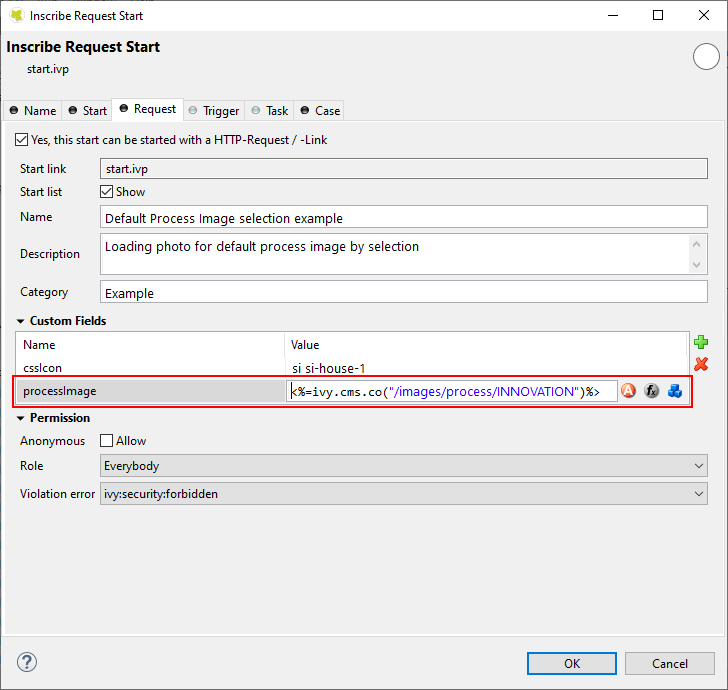
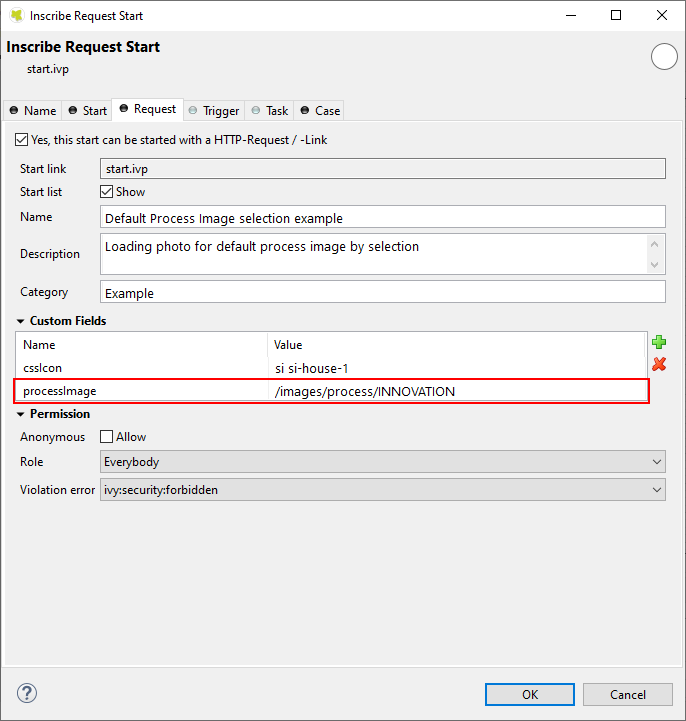
IVYPORTAL-12813 - Various or urgent requests in IVYPORTAL - S216 - IVYPORTAL-12837 - Consider to revert using cms for process image customization
Former-commit-id: 3254826ef0e91d7d7389cf51d823f42c9c48345c

diff --git a/AxonIvyPortal/PortalKit/src/ch/ivy/addon/portalkit/bean/ProcessWidgetBean.java b/AxonIvyPortal/PortalKit/src/ch/ivy/addon/portalkit/bean/ProcessWidgetBean.java
@@ -41,6 +41,8 @@ import ch.ivy.addon.portalkit.service.GlobalSettingService;
 import ch.ivy.addon.portalkit.service.ProcessStartCollector;
 import ch.ivy.addon.portalkit.util.IvyExecutor;
 import ch.ivy.addon.portalkit.util.PermissionUtils;
+import ch.ivyteam.ivy.application.IProcessModel;
+import ch.ivyteam.ivy.environment.Ivy;
 import ch.ivyteam.ivy.workflow.IProcessStart;
 import ch.ivyteam.ivy.workflow.start.IWebStartable;
 
@@ -51,6 +53,7 @@ public class ProcessWidgetBean extends AbstractProcessBean implements Serializab
   private static final long serialVersionUID = -5889375917550618261L;
   private static final String SPECIAL_CHARACTER_KEY = "SPECIAL_CHARACTER";
   private static final String DEFAULT_IMAGE_CMS_FOLDER = "/images/process/";
+  private static final int LAST_POSITION_OF_PROCESS_MODEL_NAME_IN_START_LINK = 3;
 
   private Process deletedProcess;
   private Process editedProcess;
@@ -166,13 +169,39 @@ public class ProcessWidgetBean extends AbstractProcessBean implements Serializab
   private void updateDefaultProcessImage(IvyProcess ivyProcess) {
     String customFieldProcessImage = ivyProcess.getCustomFieldImageProcess();
     if (StringUtils.isNotBlank(customFieldProcessImage)) {
-      String processImageSrc = getImageSrc(customFieldProcessImage);
-      ivyProcess.setDefaultImageSrc(processImageSrc);
+      String imageSrc = findProcessDefaultImageSrc(ivyProcess, customFieldProcessImage);
+      ivyProcess.setDefaultImageSrc(imageSrc);
       ivyProcess.setDefaultImageCms(StringUtils.EMPTY);
     } else if (!this.defaultImageType.equals(DefaultImage.DEFAULT.name())) {
       ivyProcess.setDefaultImageCms(DEFAULT_IMAGE_CMS_FOLDER + this.defaultImageType);
       ivyProcess.setDefaultImageSrc(StringUtils.EMPTY);
     }
+  }
+
+  private String findProcessDefaultImageSrc(IvyProcess process, String processImage) {
+    if (process == null || StringUtils.isBlank(process.getStartLink())) {
+      return StringUtils.EMPTY;
+    }
+
+    String[] processParts = process.getStartLink().split(SLASH);
+    String processModelName = processParts[processParts.length - LAST_POSITION_OF_PROCESS_MODEL_NAME_IN_START_LINK];
+    return IvyExecutor.executeAsSystem(() -> {
+      return getDefaultImageUri(processModelName, processImage);
+    });
+  }
+
+  private String getDefaultImageUri(String processModelName, String processImage) {
+    String defaultImageUri = StringUtils.EMPTY;
+    IProcessModel pm = Ivy.wf().getApplication().findProcessModel(processModelName);
+    if (pm != null) {
+      String processImageCms =
+          Ivy.cms().getContentManagement().findCms(pm.getReleasedProcessModelVersion()).cr(processImage);
+      if (StringUtils.isNotBlank(processImageCms)) {
+        defaultImageUri = getImageSrc(processImageCms);
+      }
+    }
+
+    return defaultImageUri;
   }
 
   private String getImageSrc(String imageElement) {

diff --git a/Documentation/portal-guide/source/portal-developer-guide/customization/process-image.rst b/Documentation/portal-guide/source/portal-developer-guide/customization/process-image.rst
@@ -19,7 +19,7 @@ Define your own process image
 #. Create a CMS object with image type in your project.
 
 #. Define a custom field ``processImage`` in :guilabel:`Custom Fields` of the process start.
-   Value of this custom field is CMS object which you created at first step.
+   Value of this custom field is URI path of image CMS object which you created at first step.
 
    |define-process-image|
 
